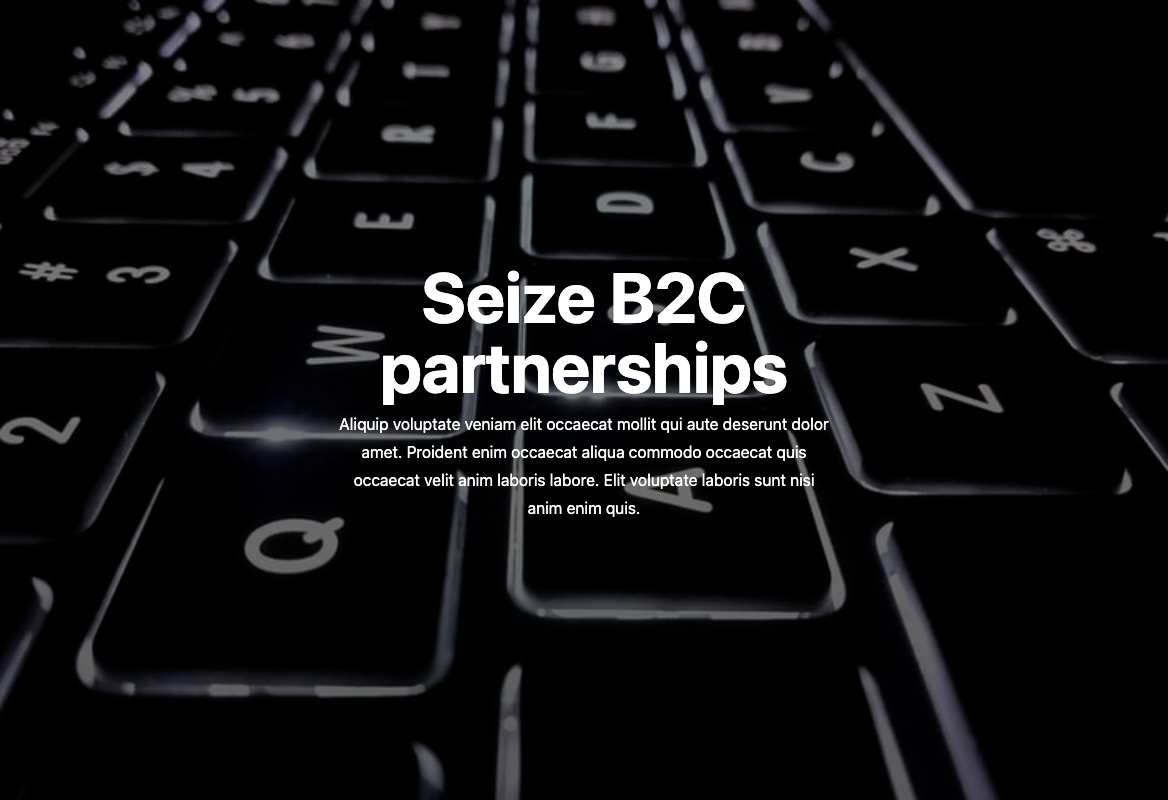
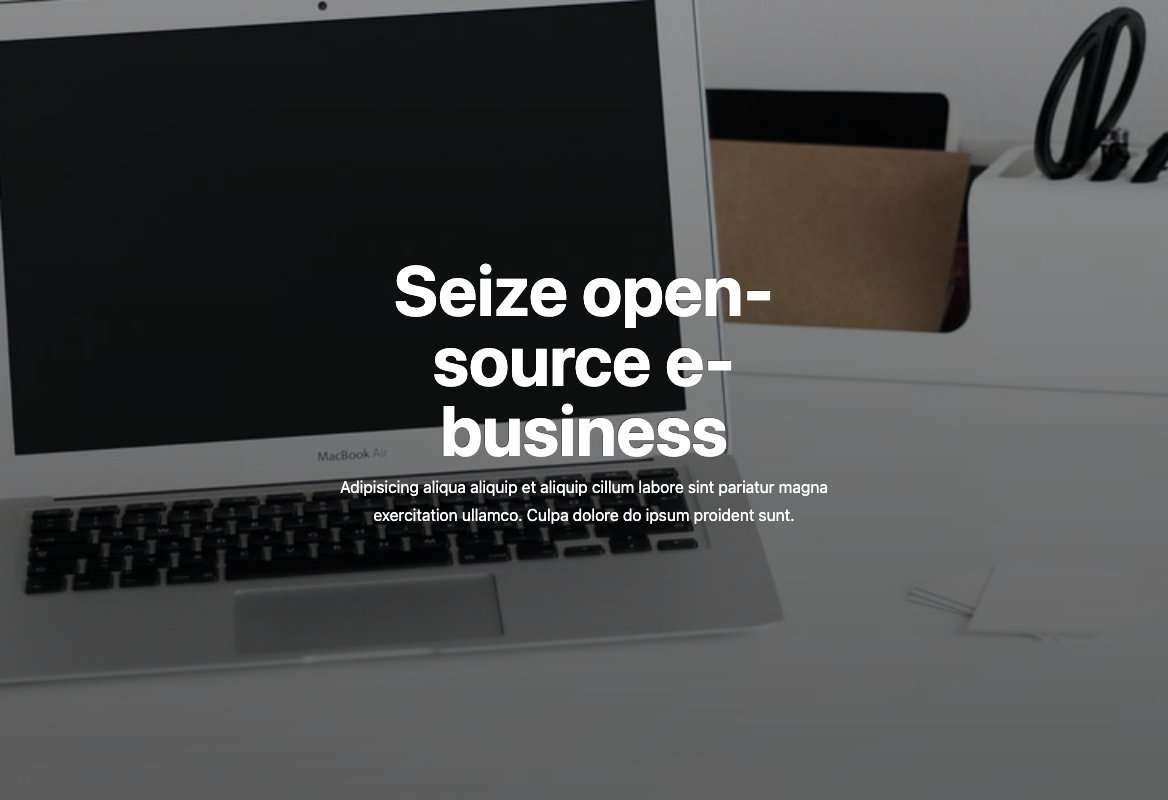
Add FullWidthImage slice

diff --git a/.slicemachine/assets/slices/BannerSlice/index.stories.js b/.slicemachine/assets/slices/BannerSlice/index.stories.js
@@ -5,5 +5,5 @@ export default {
 }
 
 
-export const _DefaultSlice = () => <MyComponent slice={{"variation":"default-slice","name":"Default slice","slice_type":"banner_slice","items":[],"primary":{"title":[{"type":"heading1","text":"Seize B2C partnerships","spans":[]}],"description":[{"type":"paragraph","text":"Aliquip voluptate veniam elit occaecat mollit qui aute deserunt dolor amet. Proident enim occaecat aliqua commodo occaecat quis occaecat velit anim laboris labore. Elit voluptate laboris sunt nisi anim enim quis.","spans":[]}],"background":{"dimensions":{"width":900,"height":500},"alt":"Placeholder image","copyright":null,"url":"https://images.unsplash.com/photo-1560457079-9a6532ccb118?w=900&h=500&fit=crop"}},"id":"_DefaultSlice"}} />
+export const _DefaultSlice = () => <MyComponent slice={{"variation":"default-slice","name":"Default slice","slice_type":"banner_slice","items":[],"primary":{"title":[{"type":"heading1","text":"Seize open-source e-business","spans":[]}],"description":[{"type":"paragraph","text":"Adipisicing aliqua aliquip et aliquip cillum labore sint pariatur magna exercitation ullamco. Culpa dolore do ipsum proident sunt.","spans":[]}],"background":{"dimensions":{"width":900,"height":500},"alt":"Placeholder image","copyright":null,"url":"https://images.unsplash.com/photo-1504198070170-4ca53bb1c1fa?w=900&h=500&fit=crop"}},"id":"_DefaultSlice"}} />
 _DefaultSlice.storyName = 'Default slice'

diff --git a/.slicemachine/assets/slices/FullWidthImage/index.stories.js b/.slicemachine/assets/slices/FullWidthImage/index.stories.js
@@ -1,0 +1,9 @@
+import MyComponent from '../../../../slices/FullWidthImage';
+
+export default {
+  title: 'slices/FullWidthImage'
+}
+
+
+export const _DefaultSlice = () => <MyComponent slice={{"variation":"default-slice","name":"Default slice","slice_type":"full_width_image","items":[],"primary":{"image":{"dimensions":{"width":980,"height":400},"alt":"Placeholder image","copyright":null,"url":"https://images.unsplash.com/photo-1587905069134-008460d7a636?w=980&h=400&fit=crop"}},"id":"_DefaultSlice"}} />
+_DefaultSlice.storyName = 'Default slice'

diff --git a/slices/FullWidthImage/index.js b/slices/FullWidthImage/index.js
@@ -1,0 +1,17 @@
+import React from 'react'
+
+const FullWidthImage = ({ slice }) => (
+  <section className="full-width-image-section">
+    <div className="full-width-image-content container">
+      <img src={slice.primary.image.url} alt={slice.primary.image.alt}/>
+    </div>
+    <style jsx>{`
+      .full-width-image-content {
+        max-width: 980px;
+        margin: auto auto 3.75rem;
+      }
+    `}</style>
+  </section>
+)
+
+export default FullWidthImage

diff --git a/slices/index.js b/slices/index.js
@@ -1,3 +1,4 @@
 // This file is generated by Prismic local builder. Update with care!
 
 export { default as BannerSlice } from './BannerSlice'
+export { default as FullWidthImage } from './FullWidthImage'
